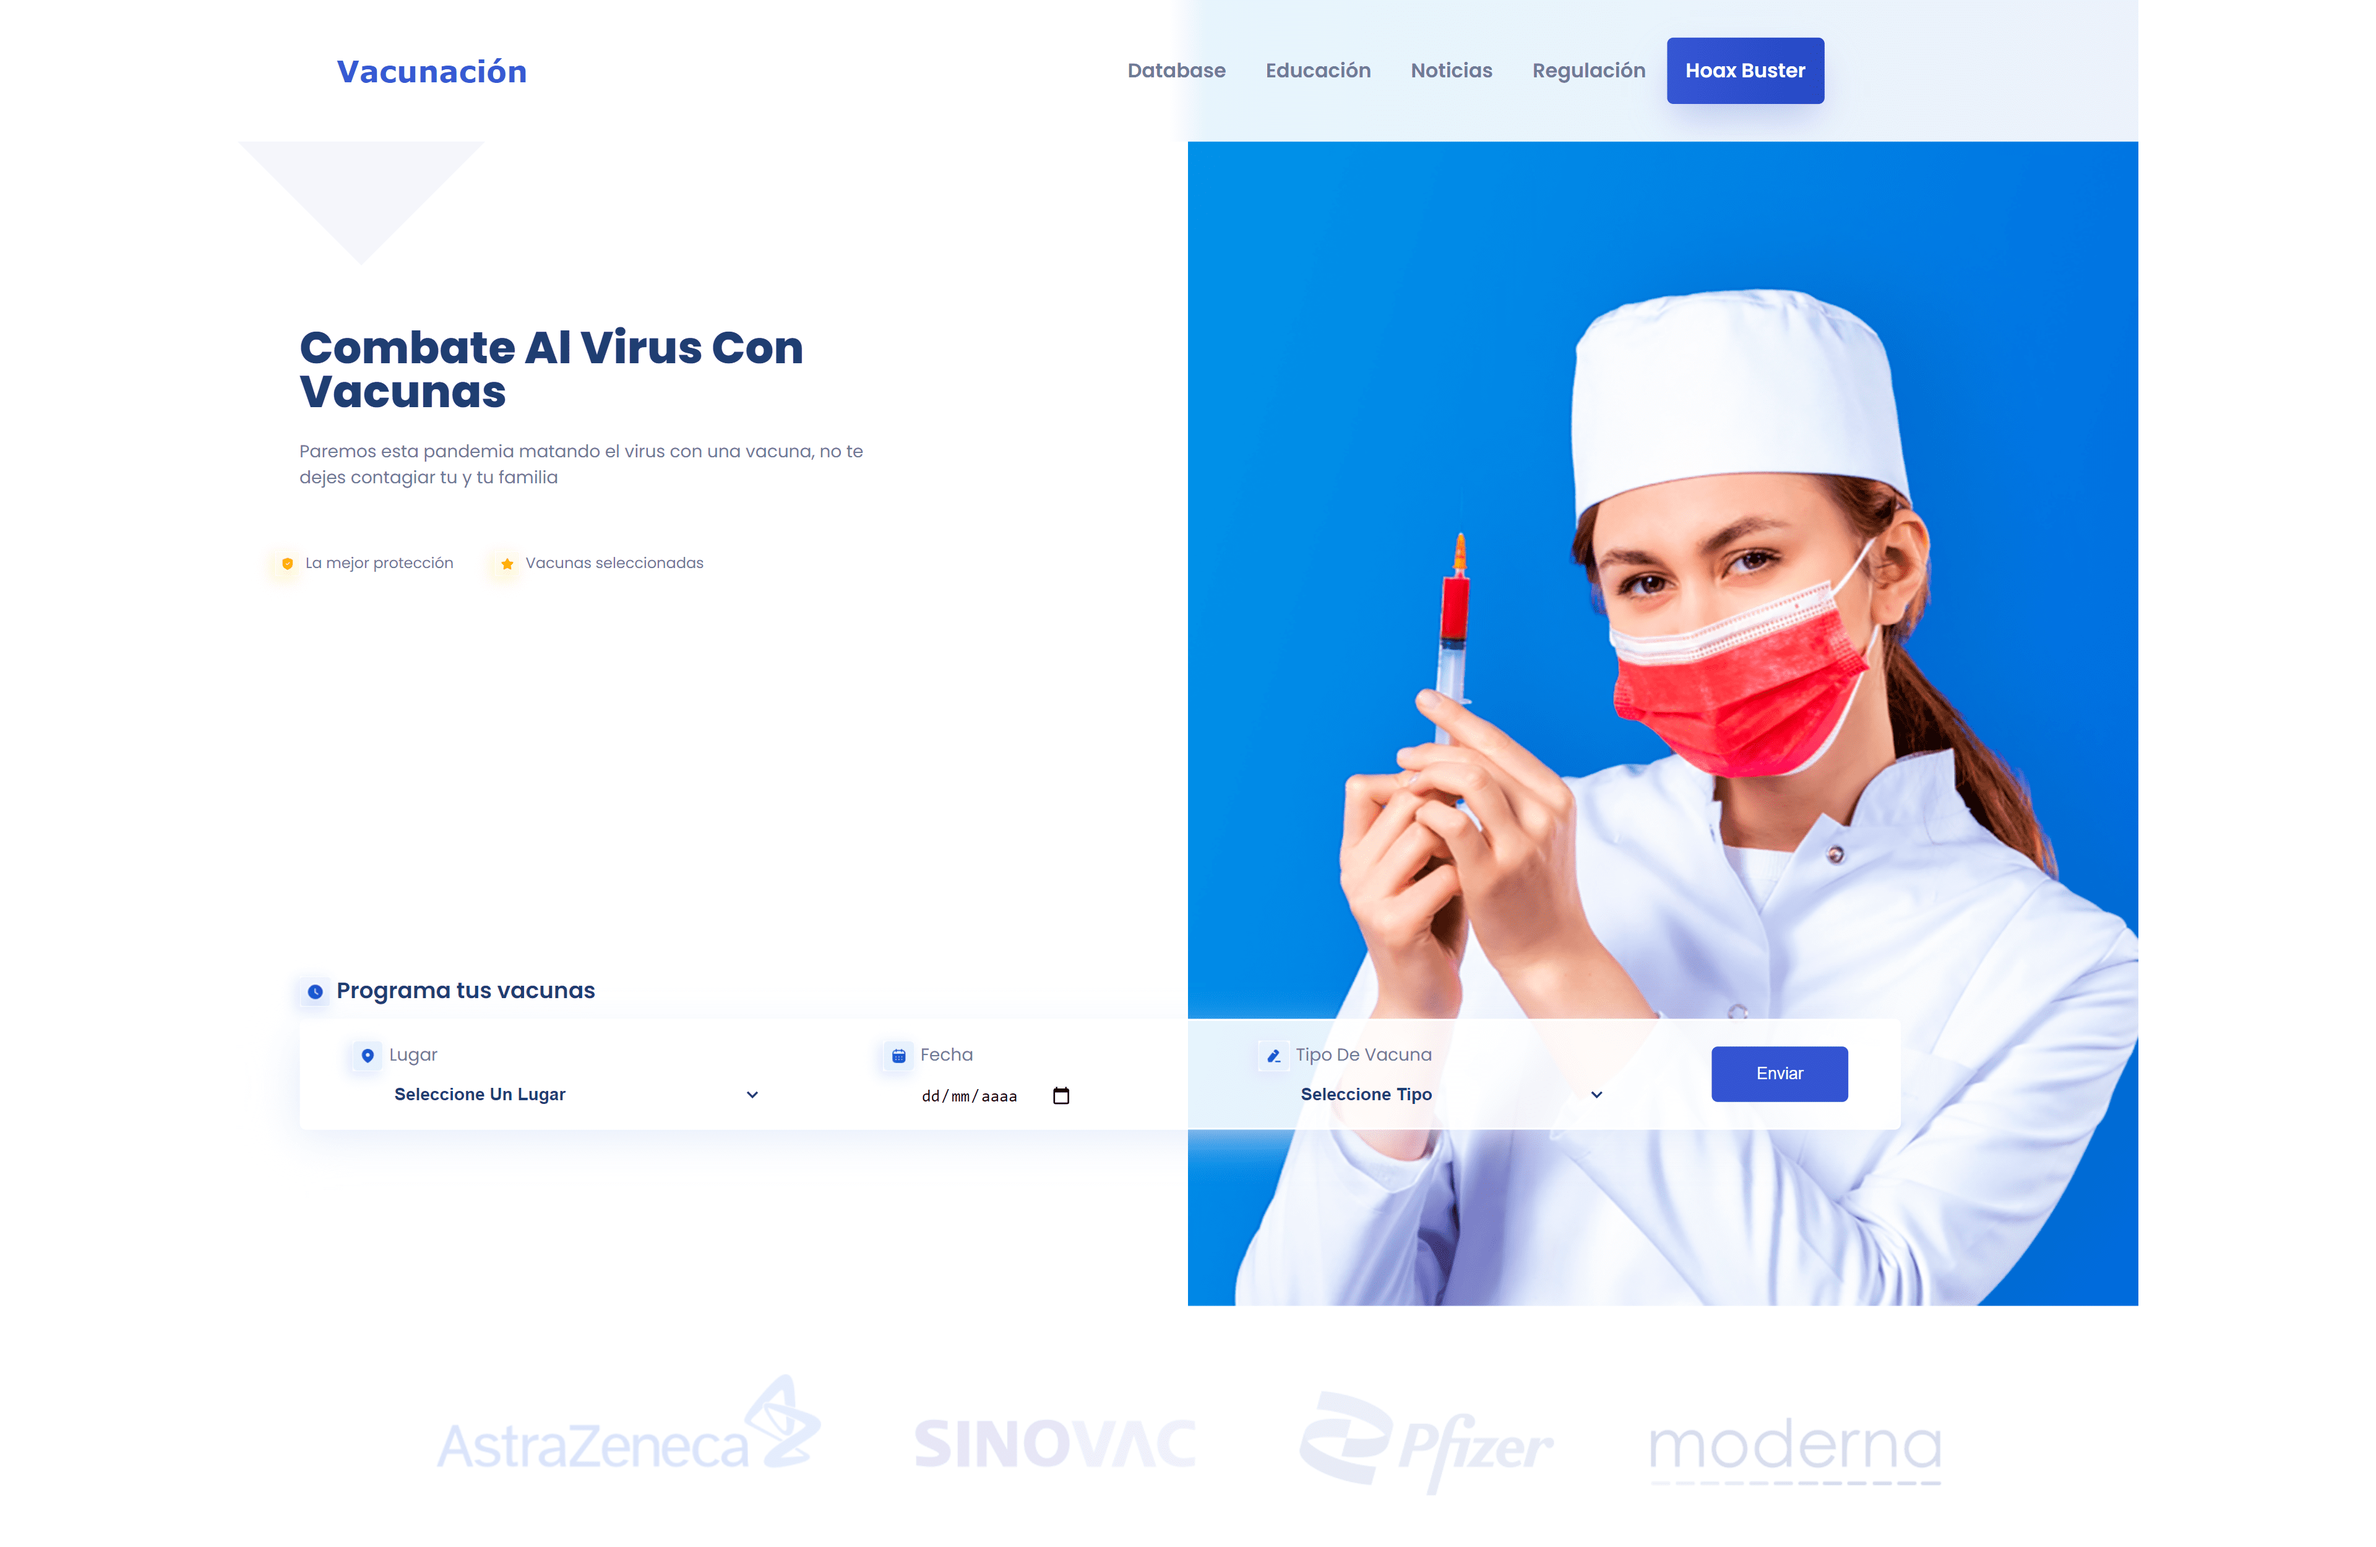
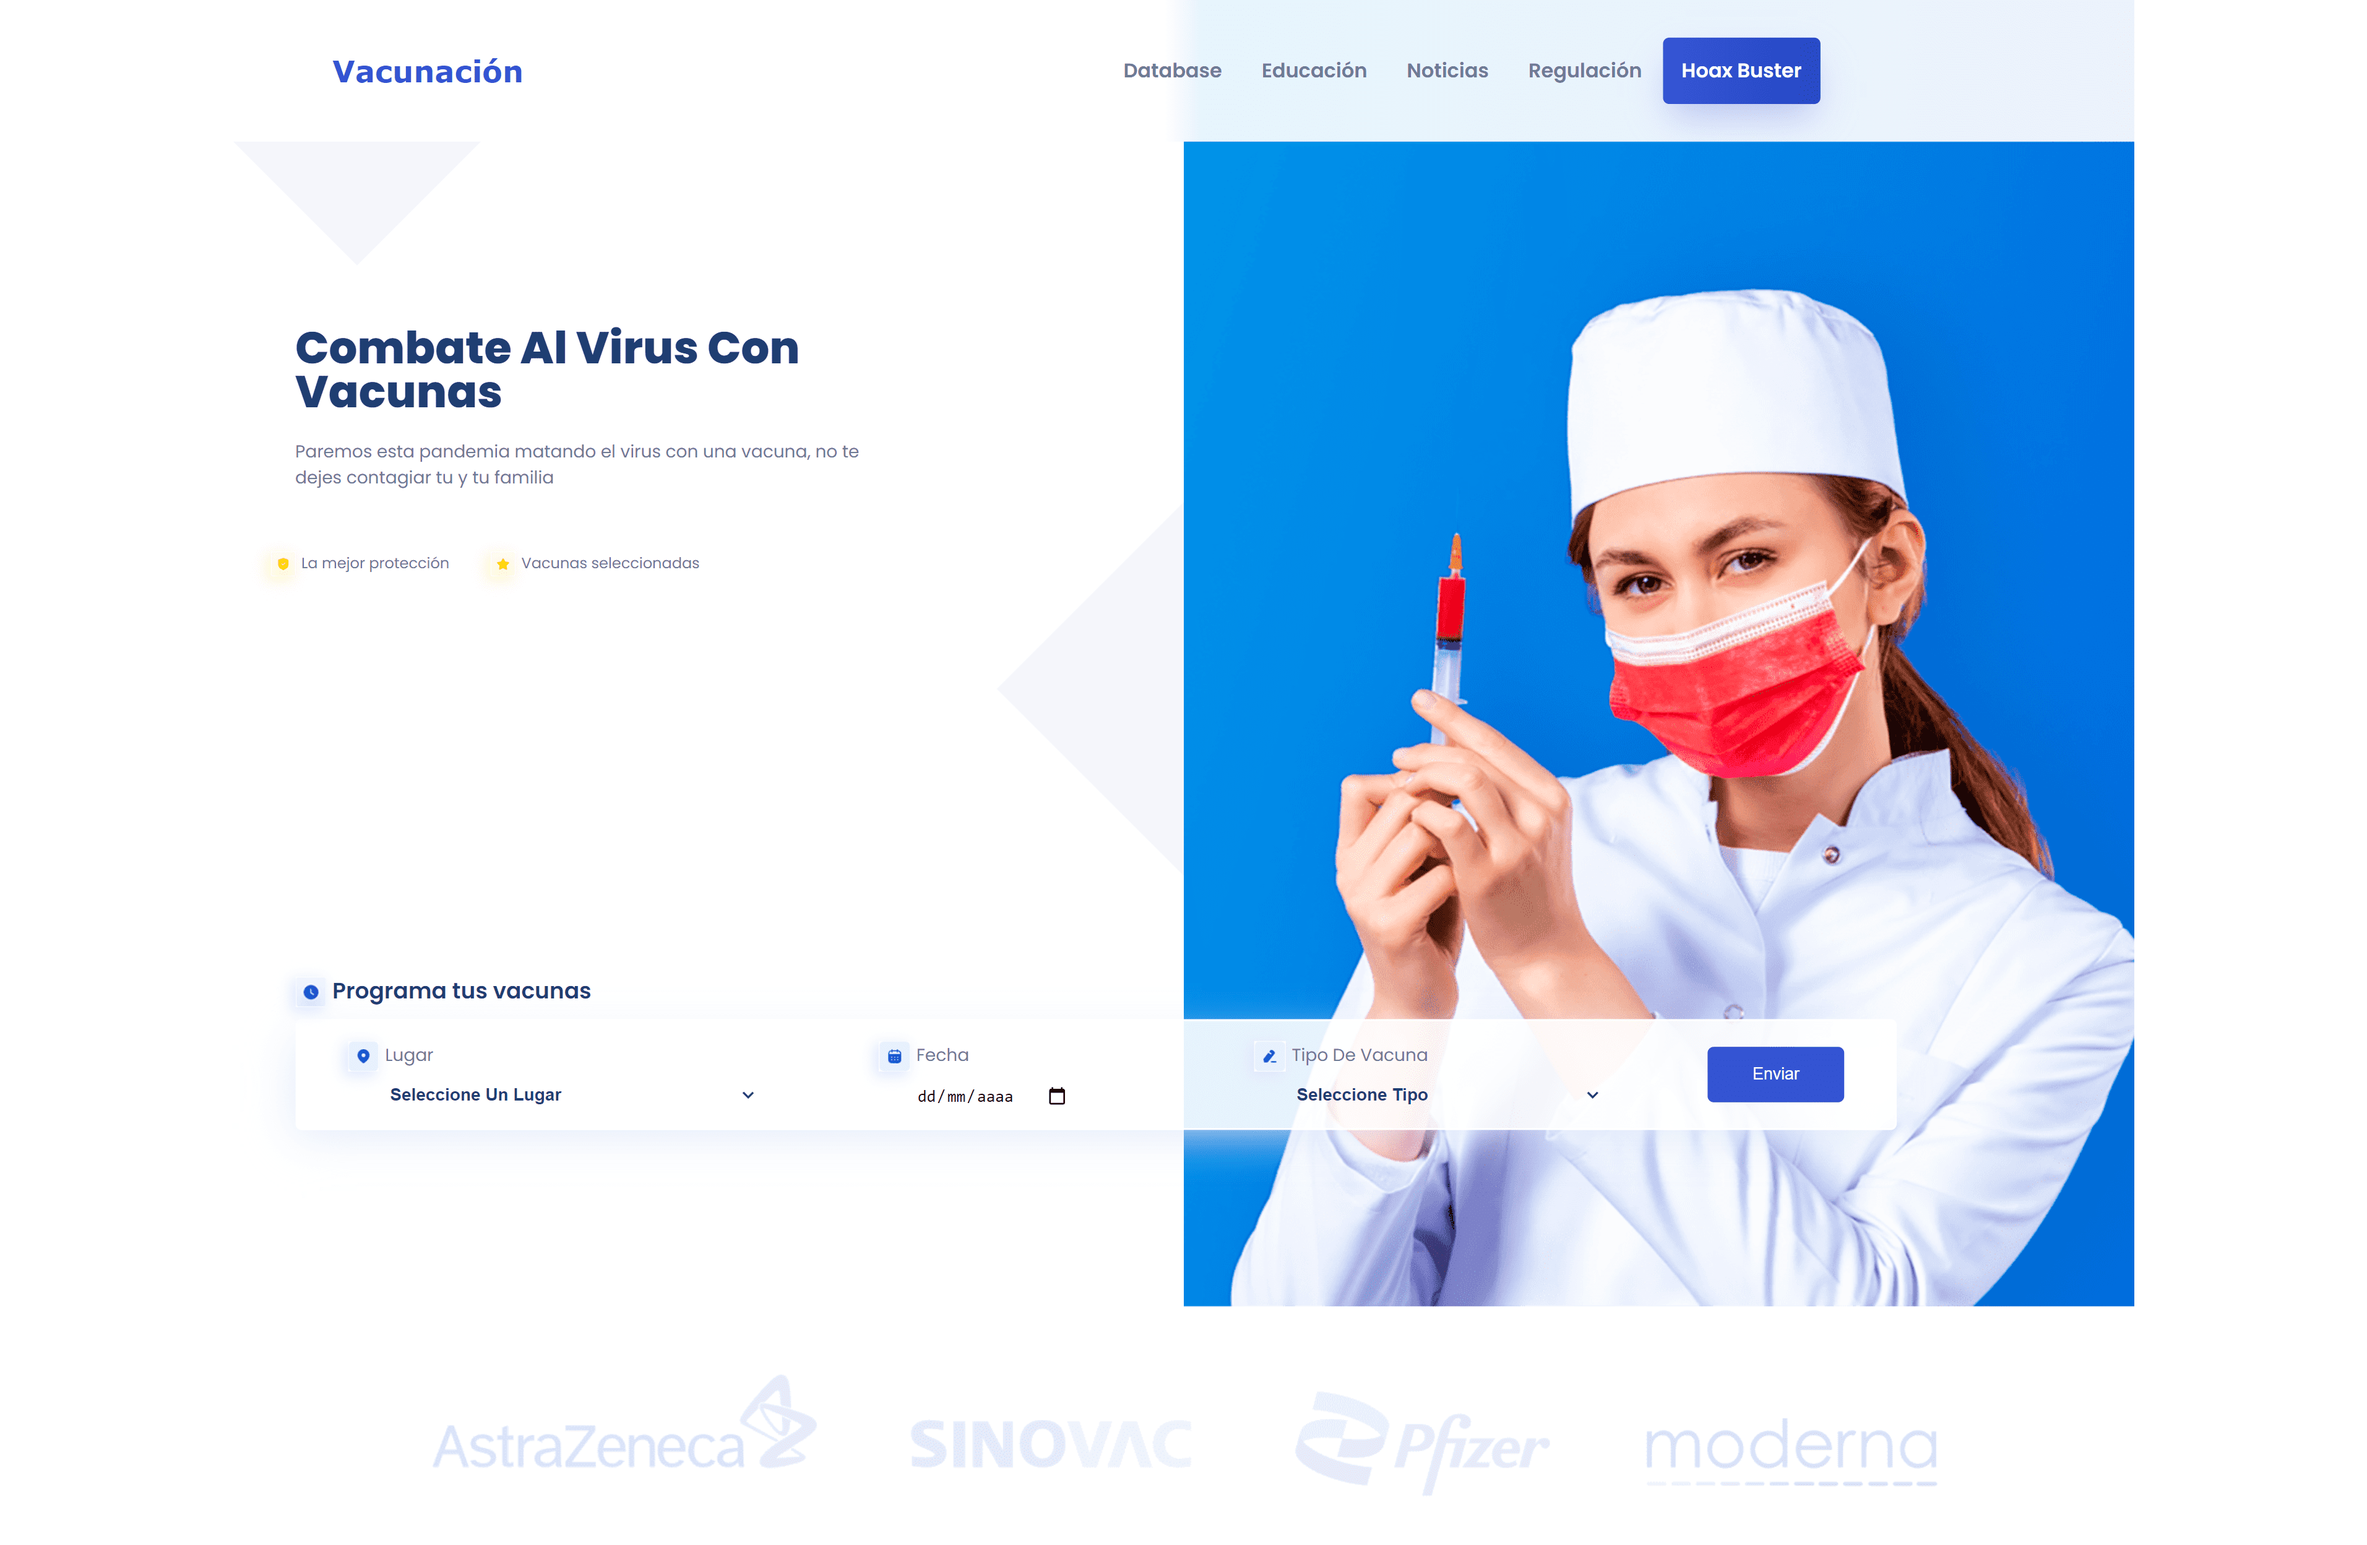
Se agrega el fondo del triangulo gris a la seccion 1 de la página

diff --git a/index.html b/index.html
@@ -26,7 +26,7 @@
 			</nav>
 		</header><!-- #main-header -->
 		<section class="content">
-			<div class="left-box">
+			<div class="left-box bg-sec1">
 				<div class="bg-triangle"></div>
 				<h2>Combate Al Virus Con Vacunas</h2>
 				<p>Paremos esta pandemia matando el virus con una vacuna, no te dejes contagiar tu y tu familia</p>

diff --git a/assets/css/vacuna.css b/assets/css/vacuna.css
@@ -89,6 +89,12 @@ ul{
     width: 50%;
 
 } 
+.bg-sec1{
+    background-image: url(../img/bgSecc1.png);
+    background-repeat: no-repeat;
+    background-position: 100% 45%;
+    background-size: 20%;
+}
 .bg-triangle{
     width: 0;
     height: 0;
